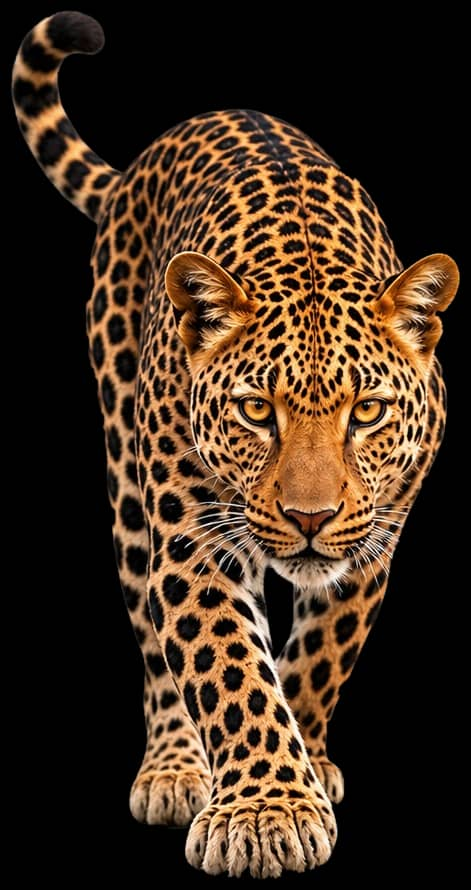
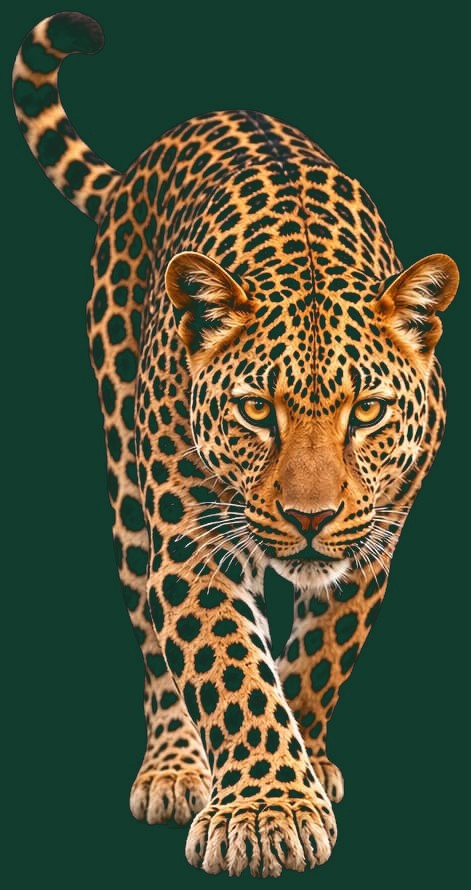
fix: Doctrine des 3T — fond détouré et animation séquencée (3.12 remarques 15/08)
Les images lion/léopard/rapace (déjà recadrées depuis les symboles
TESIMAMA/TOLAMUKE/TELUMIÈRE) avaient un fond noir plein qui laissait de
gros vides noirs disgracieux une fois object-cover dans les cartes
480px — c'est le "souci de cadrage" signalé par la Fondatrice. Détoure
le fond noir (clé d'alpha sur la luminosité) et le recompose sur le
vert forêt de la charte (#123D2E) au lieu du noir, pour un rendu
cohérent avec le reste du site.

Ajoute aussi l'animation demandée : les 3 cartes utilisent maintenant
la classe reveal individuellement avec un délai croissant (0/220/440ms)
pour apparaître l'une après l'autre (TESIMAMA puis TOLAMUKE puis
TELUMIÈRE) plutôt que toutes en même temps. Retire au passage l'accent
violet clair (#9b7fd1) resté sur la carte TELUMIÈRE, remplacé par l'or
de la charte comme les deux autres cartes.

diff --git a/resources/views/pages/home.blade.php b/resources/views/pages/home.blade.php
@@ -169,11 +169,11 @@
                     $doctrineSteps = [
                         ['name' => 'TESIMAMA', 'text' => __('site.home.tesimama'), 'photo' => 'tesimama.jpg', 'accent' => '#C99A3E'],
                         ['name' => 'TOLAMUKE', 'text' => __('site.home.tolamuke'), 'photo' => 'tolamuke.jpg', 'accent' => '#C99A3E'],
-                        ['name' => 'TELUMIERE', 'text' => __('site.home.telumiere'), 'photo' => 'telumiere.jpg', 'accent' => '#9b7fd1'],
+                        ['name' => 'TELUMIERE', 'text' => __('site.home.telumiere'), 'photo' => 'telumiere.jpg', 'accent' => '#C99A3E'],
                     ];
                 @endphp
                 @foreach ($doctrineSteps as $step)
-                    <div class="group relative h-[480px] overflow-hidden rounded-3xl hover-lift">
+                    <div class="reveal group relative h-[480px] overflow-hidden rounded-3xl hover-lift" style="transition-delay: {{ ($loop->index) * 220 }}ms">
                         <img src="{{ asset('images/doctrine/' . $step['photo']) }}" alt=""
                              class="absolute inset-0 w-full h-full object-cover transition duration-500 group-hover:scale-105">
                         <div class="absolute inset-0 bg-gradient-to-t from-[#0b261c]/92 via-[#123D2E]/45 to-transparent"></div>
